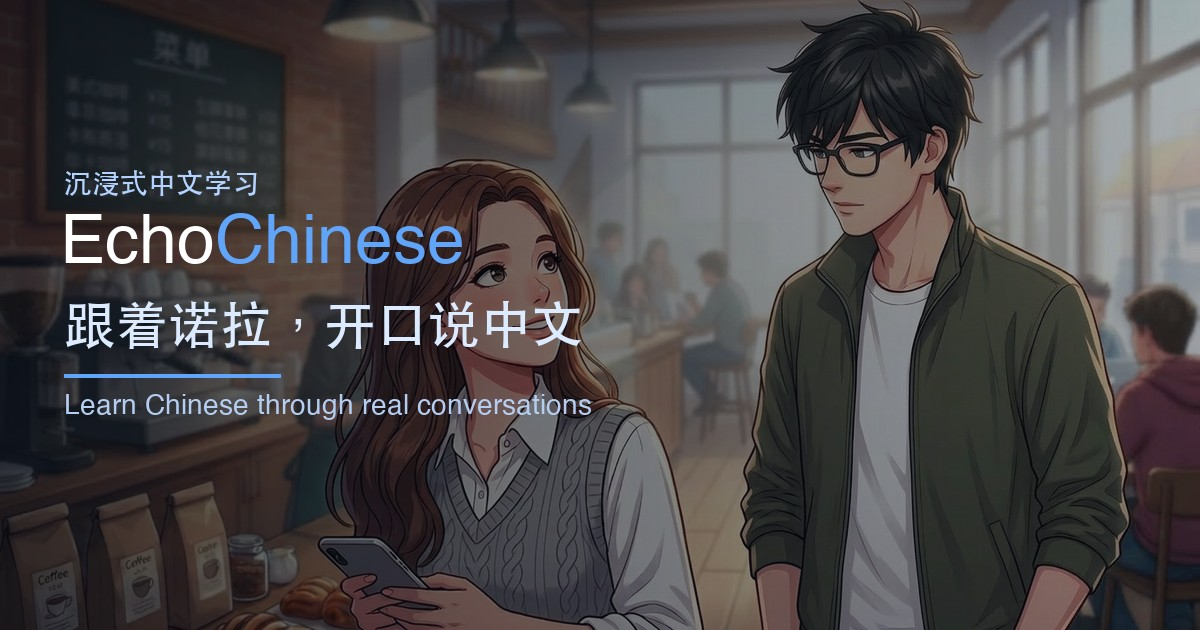
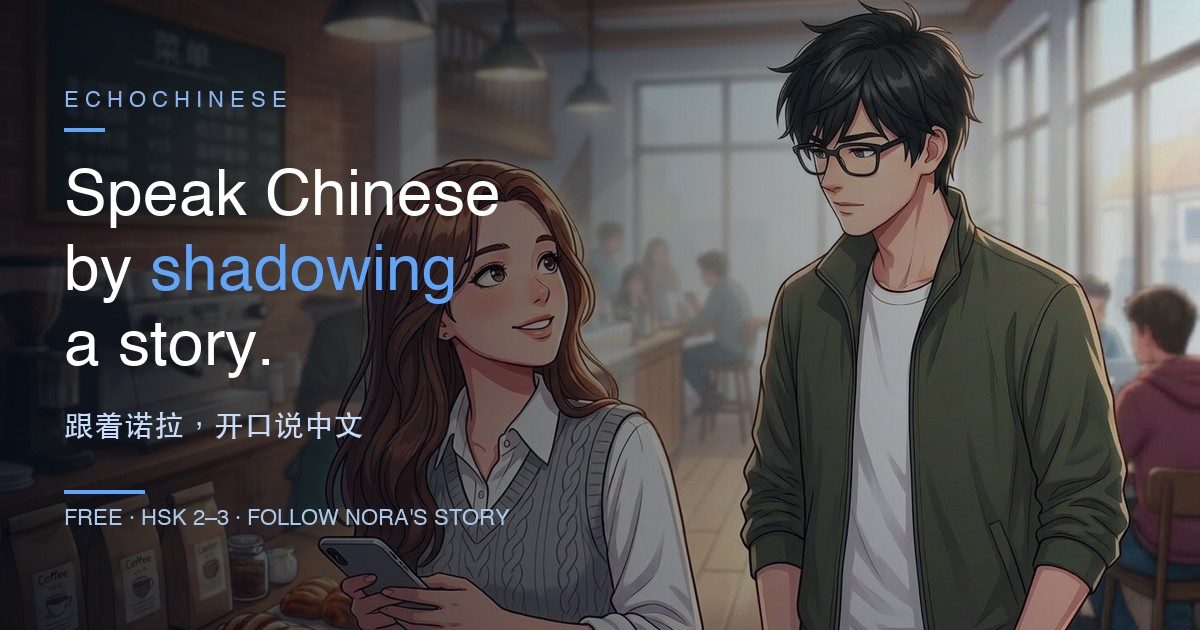
feat: English-first OG card (image + title + description)
- og-image: large English headline "Speak Chinese by shadowing a story",
  Chinese tagline demoted to supportive role, FREE · HSK 2-3 badge
- og:title / twitter:title: "EchoChinese — Speak Chinese by shadowing a story"
- og:description: "Follow Nora, an exchange student in China, and practice
  speaking line by line. Free, HSK 2-3."
- og:locale flipped to en_US primary, zh_CN alternate
- Added og:site_name, og:image:alt, plain meta description

diff --git a/public/index.html b/public/index.html
@@ -9,18 +9,23 @@
   <!-- Open Graph / Social sharing -->
   <meta property="og:type"        content="website" />
   <meta property="og:url"         content="https://echochinese.vercel.app/" />
-  <meta property="og:title"       content="EchoChinese · 轻松学中文" />
-  <meta property="og:description" content="跟着诺拉，开口说中文。沉浸式中文口语训练，跟读真实对话，AI 即时评分。Learn Chinese through real conversations." />
+  <meta property="og:site_name"   content="EchoChinese" />
+  <meta property="og:title"       content="EchoChinese — Speak Chinese by shadowing a story" />
+  <meta property="og:description" content="Follow Nora, an exchange student in China, and practice speaking line by line. Free, HSK 2–3." />
   <meta property="og:image"       content="https://echochinese.vercel.app/assets/og-image.jpg" />
   <meta property="og:image:width"  content="1200" />
   <meta property="og:image:height" content="630" />
-  <meta property="og:locale"      content="zh_CN" />
-  <meta property="og:locale:alternate" content="en_US" />
+  <meta property="og:image:alt"    content="EchoChinese — Speak Chinese by shadowing a story" />
+  <meta property="og:locale"      content="en_US" />
+  <meta property="og:locale:alternate" content="zh_CN" />
+
+  <!-- Standard meta description (also used by search & some chat apps) -->
+  <meta name="description" content="Follow Nora, an exchange student in China, and practice speaking line by line. Free, HSK 2–3." />
 
   <!-- Twitter / X Card -->
   <meta name="twitter:card"        content="summary_large_image" />
-  <meta name="twitter:title"       content="EchoChinese · 轻松学中文" />
-  <meta name="twitter:description" content="跟着诺拉，开口说中文。沉浸式中文口语训练，AI 即时评分。" />
+  <meta name="twitter:title"       content="EchoChinese — Speak Chinese by shadowing a story" />
+  <meta name="twitter:description" content="Follow Nora, an exchange student in China, and practice speaking line by line. Free, HSK 2–3." />
   <meta name="twitter:image"       content="https://echochinese.vercel.app/assets/og-image.jpg" />
 
   <!-- 现代无衬线中文字体：Noto Sans SC（Bold/Black） -->
